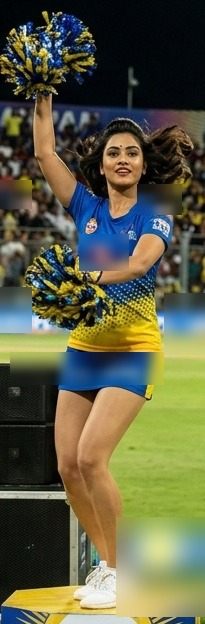
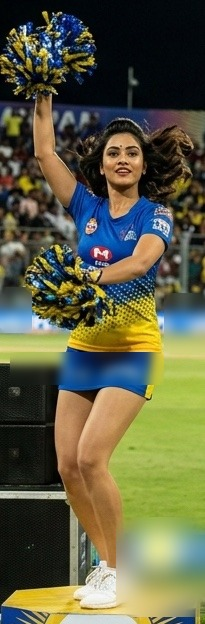
Old_Indian: fix real scoring bug, blur round 2, polaroid/board/glide fixes
Real bug fix: scoreMove() and scoreByStockfishOnly() both did
`findIndex(...) <= 1` without checking for -1 (not found) first --
and -1 <= 1 is true in JS, so any move the engine didn't rank at all
was silently scored as a top-2 move. This is why SES! was firing on
nearly every move. Undetected through prior testing because local dev
always routes through scoreByStockfishOnly() (no Lichess token), and
every move tested so far happened to be engine-approved (ei never -1).
Verified fixed with a stubbed fetchStockfishEval: a move absent from
engineTopMoves with a clearly-bad eval now correctly scores 1, not 5.

Blur recalibration round 2 (user: still too large/noticeable): tiny
circles for single-icon logos, soft rounded-rect masks (not tapering
ellipses -- those under-cover content near the box edges) for wide
multi-word sponsor bands. Dropped minor chest/sleeve badges entirely.
Celebrate11_6.jpg turned out to have three stacked sponsor rows, not
one -- found via y-column pixel-diff scans against the original
instead of continuing to guess from screenshots.

Polaroid frame: object-fit was "cover" at a fixed 260x260, cropping
every non-square photo. Now max-width/max-height 240px with
width/height auto and object-fit contain, .polaroid as inline-block
so the white border shrink-wraps to the actual rendered size --
verified with a forced landscape and a forced portrait image, both
now fully uncropped.

Board boundary rope: cream/red -> a 7-stripe blue/gold cycle (D6
[…]

diff --git a/Desktop/ClaudeCode/Chess_Games/Old_Indian/app.js b/Desktop/ClaudeCode/Chess_Games/Old_Indian/app.js
@@ -240,21 +240,21 @@ const WISDOM_QUOTES = [
     "...d6 is soos 'n vertroude verdedigende bal — dit werk teen vinnige boulwerk (e4) én stadige spin (d4).",
     "Philidor het gesê pionne is die siel van skaak — d6 is die eerste bal van daardie beurt.",
     "Bou jou posisie soos 'n goeie beurt — lopie vir lopie, nie roekeloos nie.",
-    "Die Hanham-opstelling speel soos 'n verdedigende kolwer: Nd7, Ngf6, Be7, dan rokade — wikets in die hand.",
+    "Die Hanham-opstelling speel soos 'n verdedigende kolwer: Nd7, Ngf6, Be7, dan rokade — paaltjies in die hand.",
     "In die Ou-Indiër ontwikkel jou loper na e7 — nie 'n groot slag nie, maar 'n betroubare enkelloop.",
     "Moheschunder Bannerjee het hierdie idees in Calcutta gespeel — dieselfde stad waar krieket-koors al vir 200 jaar brand.",
     "Tartakower het die naam 'Indiër' voorgestel uit respek — 'n eerbewys, soos 'n gehoor wat vir 'n goeie kolwer opstaan.",
     "Chigorin het die Ou-Indiër ontwikkel — soliede tegniek bo flambojante slae.",
     "'n Fianchetto na g7 verander jou hele beurt-plan — weet watter pad jy kies voor jy swaai.",
     "Philidor self was aggressief: hy het ...f5 aanbeveel — soms moet jy vir die grens slaan, nie net verdedig nie.",
-    "Morphy se opponente in die Opera-spel het roekeloos ...Bg4 gespeel — 'n wanhopige slag wat 'n wiket gekos het.",
-    "Geduld bou 'n groot telling; haas bou net 'n vroeë wiket.",
+    "Morphy se opponente in die Opera-spel het roekeloos ...Bg4 gespeel — 'n wanhopige slag wat 'n paaltjie gekos het.",
+    "Geduld bou 'n groot telling; haas bou net 'n vroeë paaltjie.",
     "'n Perd op d7 lyk passief, maar soos 'n goeie veldwagter hou dit al die belangrike velde dop.",
     "Speel nooit vir die grens voor jou ontwikkeling reg is nie — bou eers jou beurt, val dan aan.",
     "Die Tsjeggiese Variasie (...c6) is 'n stil enkelloop — geen groot slag nie, maar geen fout ook nie.",
     "Janowski het ...Bf5 gespeel om sy loper betyds uit te kry — soos 'n kolwer wat vroeg sy skoot kies.",
     "Elke groot beurt begin met een bal wat reg gespeel is.",
-    "'n Koningin gevang is soos 'n groot wiket — maar 'n goeie beurt wen die meeste wedstryde."
+    "'n Koningin gevang is soos 'n groot paaltjie — maar 'n goeie beurt wen die meeste wedstryde."
 ];
 
 const BADGE_DESCRIPTIONS = {
@@ -538,7 +538,15 @@ function initBoard() {
         draggable: false,
         position: 'start',
         orientation: 'black',
-        pieceTheme: 'https://chessboardjs.com/img/chesspieces/wikipedia/{piece}.png'
+        pieceTheme: 'https://chessboardjs.com/img/chesspieces/wikipedia/{piece}.png',
+        // Explicit, slower-than-default speeds so White's move reads as a
+        // visible glide rather than an instant snap — board.position(fen)
+        // animates by default, but the default speed is fast enough (~200ms)
+        // to barely register.
+        moveSpeed:     500,
+        appearSpeed:   400,
+        snapbackSpeed: 300,
+        snapSpeed:     150
     });
     positionHistory = [game.fen()];
 }
@@ -690,13 +698,17 @@ async function scoreMove(fen, move) {
 
         if (totalGames < 20) return scoreByStockfishOnly(move.san, uciMove, engineTopMoves, sfData, fen);
 
+        // findIndex() returns -1 when the move isn't found — and -1 <= 1 is
+        // true in JS, so an unguarded "pi <= 1" would silently score every
+        // unranked move as a top-2 move. Must check "found" explicitly.
         const pi = popularMoves.findIndex(m => m.san === move.san);
         const ei = engineTopMoves.findIndex(m => m.san === move.san);
+        const piOk = pi !== -1, eiOk = ei !== -1;
 
-        if (pi <= 1 || ei <= 1) return 5;
-        if (pi <= 3 || ei <= 3) return 4;
-        if (pi === 4 || ei === 4) return 3;
-        if (pi === 5 || ei === 5) return 2;
+        if ((piOk && pi <= 1) || (eiOk && ei <= 1)) return 5;
+        if ((piOk && pi <= 3) || (eiOk && ei <= 3)) return 4;
+        if ((piOk && pi === 4) || (eiOk && ei === 4)) return 3;
+        if ((piOk && pi === 5) || (eiOk && ei === 5)) return 2;
         return 1;
 
     } catch (e) { console.error('scoreMove error:', e); return 3; }
@@ -704,11 +716,17 @@ async function scoreMove(fen, move) {
 
 async function scoreByStockfishOnly(moveSan, uciMove, engineTopMoves, sfData, fen) {
     if (engineTopMoves.length > 0) {
+        // -1 (not found) must never satisfy "<= 1" — see scoreMove() for the
+        // same bug. Only take these tier shortcuts when the move was actually
+        // found and ranked; otherwise fall through to the centipawn-loss
+        // fallback below, same as when it's ranked worse than 6th.
         const ei = engineTopMoves.findIndex(m => m.san === moveSan || m.uci === uciMove);
-        if (ei <= 1) return 5;
-        if (ei <= 3) return 4;
-        if (ei === 4) return 3;
-        if (ei === 5) return 2;
+        if (ei !== -1) {
+            if (ei <= 1) return 5;
+            if (ei <= 3) return 4;
+            if (ei === 4) return 3;
+            if (ei === 5) return 2;
+        }
 
         // Centipawn-loss fallback
         // fen is Black to move; positive cp = good for Black (side to move)

diff --git a/Desktop/ClaudeCode/Chess_Games/Old_Indian/styles.css b/Desktop/ClaudeCode/Chess_Games/Old_Indian/styles.css
@@ -23,6 +23,8 @@
     --gold:      #FFC94A;   /* trophy gold — score, high score, bursts */
     --teal:      #2EC4B6;   /* floodlight teal — good moves, hints, links */
     --red:       #E63946;   /* ball red — danger, errors, death overs */
+    --team-blue: #1E4FA0;   /* D6 Dynamos kit blue — board boundary rope */
+    --team-pink: #FF5FA8;   /* firework pink accent — used sparingly */
     --white:     #F4EDE4;
     --muted:     #B9AFA0;
 }
@@ -245,7 +247,17 @@ header h1 {
 
 /* ── Board — boundary-rope frame + hoarding ───────────────── */
 .board-container {
-    background: repeating-linear-gradient(135deg, #F4EFDD 0 12px, var(--red) 12px 24px);
+    /* Team-colour boundary rope: blue/gold, with one pink stripe per
+       7-stripe cycle for an occasional firework-y accent. */
+    background: repeating-linear-gradient(135deg,
+        var(--team-blue) 0 12px,
+        var(--gold)      12px 24px,
+        var(--team-blue) 24px 36px,
+        var(--gold)      36px 48px,
+        var(--team-blue) 48px 60px,
+        var(--gold)      60px 72px,
+        var(--team-pink) 72px 84px
+    );
     padding: 10px;
     border-radius: 10px;
     box-shadow: 0 10px 26px rgba(0,0,0,0.45);
@@ -411,13 +423,19 @@ header h1 {
     opacity: 1; transform: translate(-50%, -50%) scale(1) rotate(-3deg);
 }
 .polaroid {
+    display: inline-block;
     background: #fdfcf8;
-    padding: 14px 14px 38px;
+    padding: 12px 12px 34px;
     border-radius: 2px;
     box-shadow: 0 22px 55px rgba(0,0,0,0.55);
 }
 .polaroid img {
-    display: block; width: 260px; height: 260px; object-fit: cover;
+    display: block;
+    max-width: 240px; max-height: 240px;
+    width: auto; height: auto;
+    /* Never crop — user-supplied photos vary in dimensions, so they scale
+       down to fit the frame at their own aspect ratio instead. */
+    object-fit: contain;
     border-radius: 1px;
     filter: saturate(1.05) contrast(1.03);
 }
@@ -427,7 +445,7 @@ header h1 {
 }
 
 @media (max-width: 600px) {
-    .polaroid img { width: 190px; height: 190px; }
+    .polaroid img { max-width: 170px; max-height: 170px; }
 }
 
 /* ── Bal-vir-Bal — move history scorecard ─────────────────── */

diff --git a/Desktop/ClaudeCode/Chess_Games/Old_Indian/CLAUDE.md b/Desktop/ClaudeCode/Chess_Games/Old_Indian/CLAUDE.md
@@ -595,3 +595,71 @@ condition** (reusing page state across a `#modal-new-game` click without waiting
 async chain to fully settle), not a real bug — confirmed by re-running the same check on a clean
 page load, where it passed correctly. Worth remembering: when a same-session before/after test
 gives a surprising result, try it isolated on a fresh page before concluding the app is wrong.
+
+---
+
+## 16. Real Scoring Bug, Blur Recalibration Round 2, Polaroid/Board/Glide Fixes (2026-08-21)
+
+### `findIndex()` returning -1, and -1 <= 1 being true — a real, significant scoring bug
+The user reported "SES! appears to be awarded at every move of black." Root cause: both
+`scoreMove()`'s combined-ranking branch and `scoreByStockfishOnly()`'s engine-only branch did
+`const ei = engineTopMoves.findIndex(...); if (ei <= 1) return 5;` — but `findIndex()` returns
+`-1` when nothing matches, and **`-1 <= 1` is `true` in JavaScript**. Every move the engine
+*didn't* rank at all was silently scored as if it were a top-2 move. This had been live and
+undetected through every previous testing pass because local dev always routes through
+`scoreByStockfishOnly()` (no Lichess token → Explorer always 401s → `totalGames < 20` always),
+and every move actually tested in prior smoke tests happened to be an engine-approved move (`d6`,
+`Nf6`) — so `ei` was always a small non-negative number, never `-1`, and the bug never fired in
+those specific tests. Fixed by explicitly checking `ei !== -1` (and `pi !== -1`) before the tier
+comparisons in both functions, falling through to the centipawn-loss fallback (or tier 1) instead
+of the false-positive shortcut. **Verified with a stubbed `fetchStockfishEval`**: called
+`scoreByStockfishOnly()` directly with a move absent from `engineTopMoves` and a clearly-bad
+fabricated evaluation — confirmed it now returns 1, not 5.
+
+### Blur recalibration, round 2 — user feedback: too large, too noticeable
+Round 1 (§14/§15) used tight rectangular boxes; still too visually heavy for a photo shown
+briefly at a small, non-enlarged size — the user specifically called out the umpire-styled
+`Celebrate11_6.jpg` and a couple of the cheerleader shots as "overwhelming." Recalibrated with
+two techniques depending on what's being covered:
+- **Single icon/short-wordmark logos** (TATA oval, Kingfisher bird, corner wordmarks, the small
+  "eyes" logo pairs): genuinely tiny circles, sized just to the mark itself.
+- **Wide multi-word sponsor bands** (Dream11/vivo/CRE strips): a soft rounded-rectangle mask
+  (mosaic + Gaussian blur, rounded corners, feathered edge) — a true small circle can't cover a
+  wide wordmark without leaving letters exposed at the edges, and a tapering ellipse mask
+  under-covers content sitting near the box's top/bottom edge (found this the hard way on
+  `Celebrate11_6.jpg`, which turned out to have **three stacked sponsor rows**, not one — traced
+  precisely with `y`-column pixel-diff scans against the original rather than continuing to guess
+  from cropped screenshots).
+- Dropped the smaller chest/sleeve sponsor badges entirely on most images — small enough to
+  already be borderline illegible, and removing them measurably reduces the "blur all over the
+  person" feeling versus covering every last mark.
+- Confirmed real coverage with pixel-diff scans (comparing original vs. output pixel-by-pixel
+  along a column) rather than trusting a zoomed screenshot alone — repeatedly proved more
+  reliable than the eye at small scale, in both directions: catching genuine gaps a normal-size
+  view missed, and catching false "still looks off" alarms that were actually just JPEG/mosaic
+  texture reading as letters under zoom.
+
+### Polaroid frame — no cropping, fits varied dimensions
+`.polaroid img` was `width:260px;height:260px;object-fit:cover` — forced every photo into a fixed
+square, cropping anything not already square (most of the set: portraits, landscapes). Changed to
+`max-width/max-height:240px` with `width/height:auto` and `object-fit:contain`, and `.polaroid`
+itself to `display:inline-block` so the white polaroid border shrink-wraps to the image's actual
+rendered size rather than a fixed box. Verified with a deliberately landscape (`Celebrate12_6.jpg`,
+559×197) and deliberately portrait (`Celebrate5_6.jpg`, 205×624) image forced into the popup —
+both now render fully uncropped at their own aspect ratio.
+
+### Board boundary rope — team colours, with an occasional firework pink
+`.board-container`'s diagonal stripe was cream/red (matching neither the actual "D6 Dynamos"
+brand — blue and gold, per `Logo.jpg` and the celebration photos — nor anything cricket-specific).
+Changed to a 7-stripe repeating cycle: blue/gold alternating, with one pink stripe per cycle for
+the "still feels firework-y" accent the user asked to keep. New `--team-blue` (`#1E4FA0`) and
+`--team-pink` (`#FF5FA8`) custom properties.
+
+### White's move glide
+`board.position(fen)` animates by default in chessboard.js, but with no explicit speed
+configured it defaults fast enough (~200ms) to barely read as motion. Added explicit
+`moveSpeed: 500, appearSpeed: 400, snapbackSpeed: 300, snapSpeed: 150` to the `Chessboard()` init
+config so White's piece visibly glides to its new square instead of appearing to snap.
+
+### Terminology
+"wiket" → "paaltjie" throughout (wisdom quotes) per user correction.
